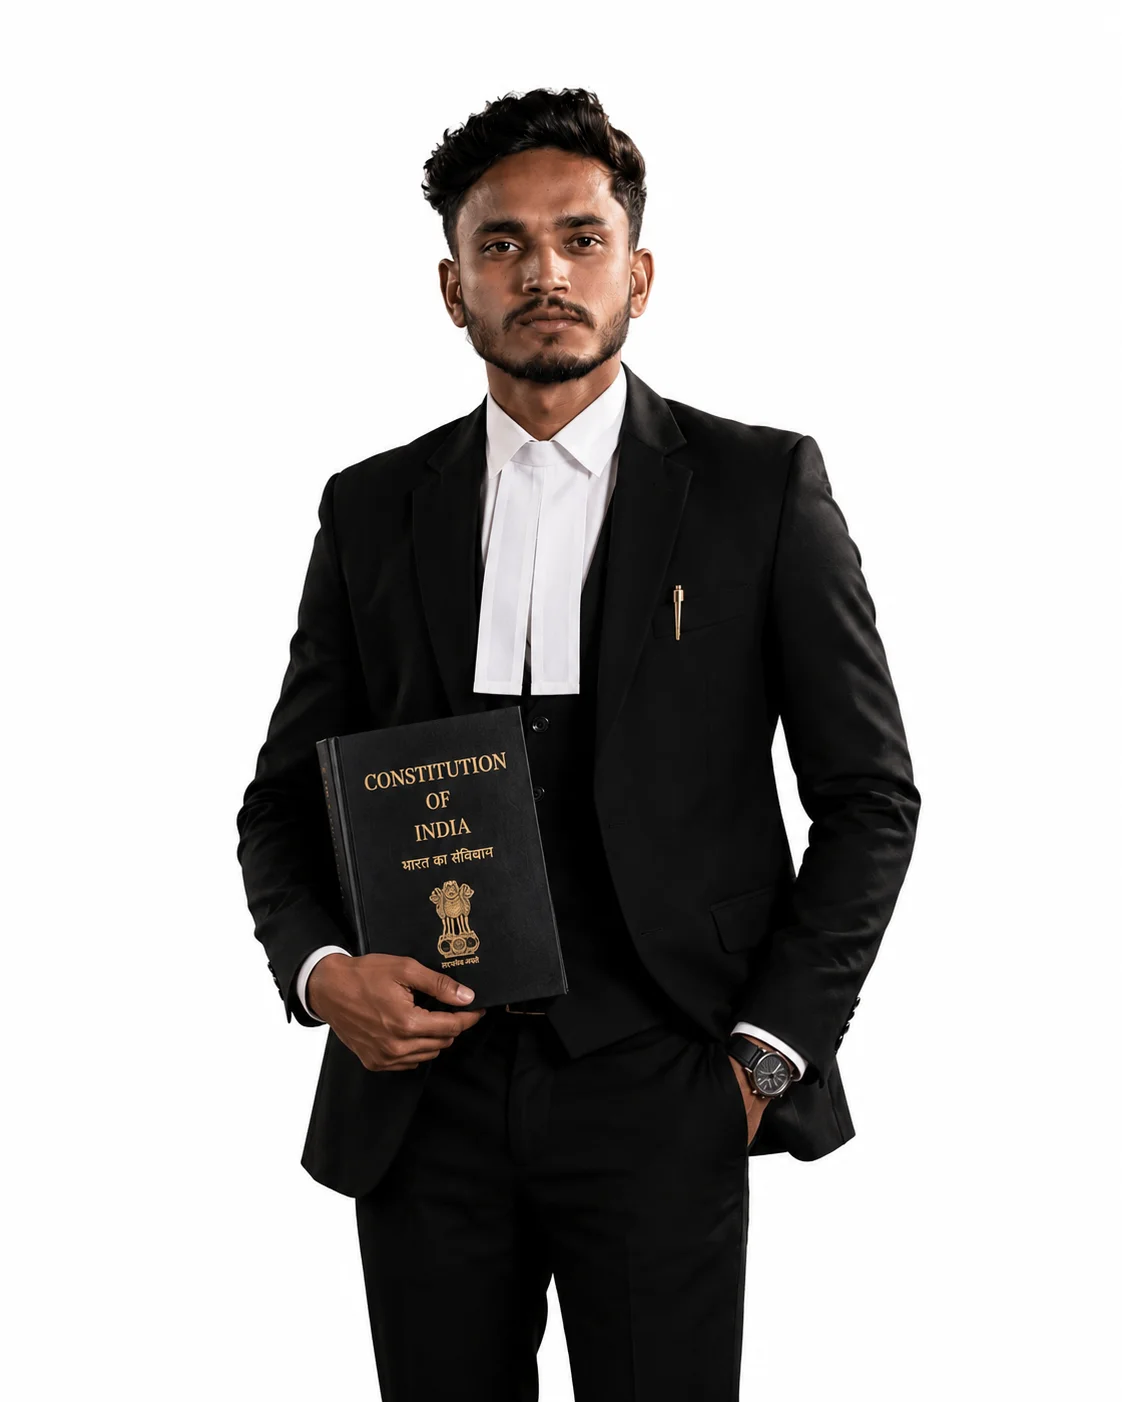
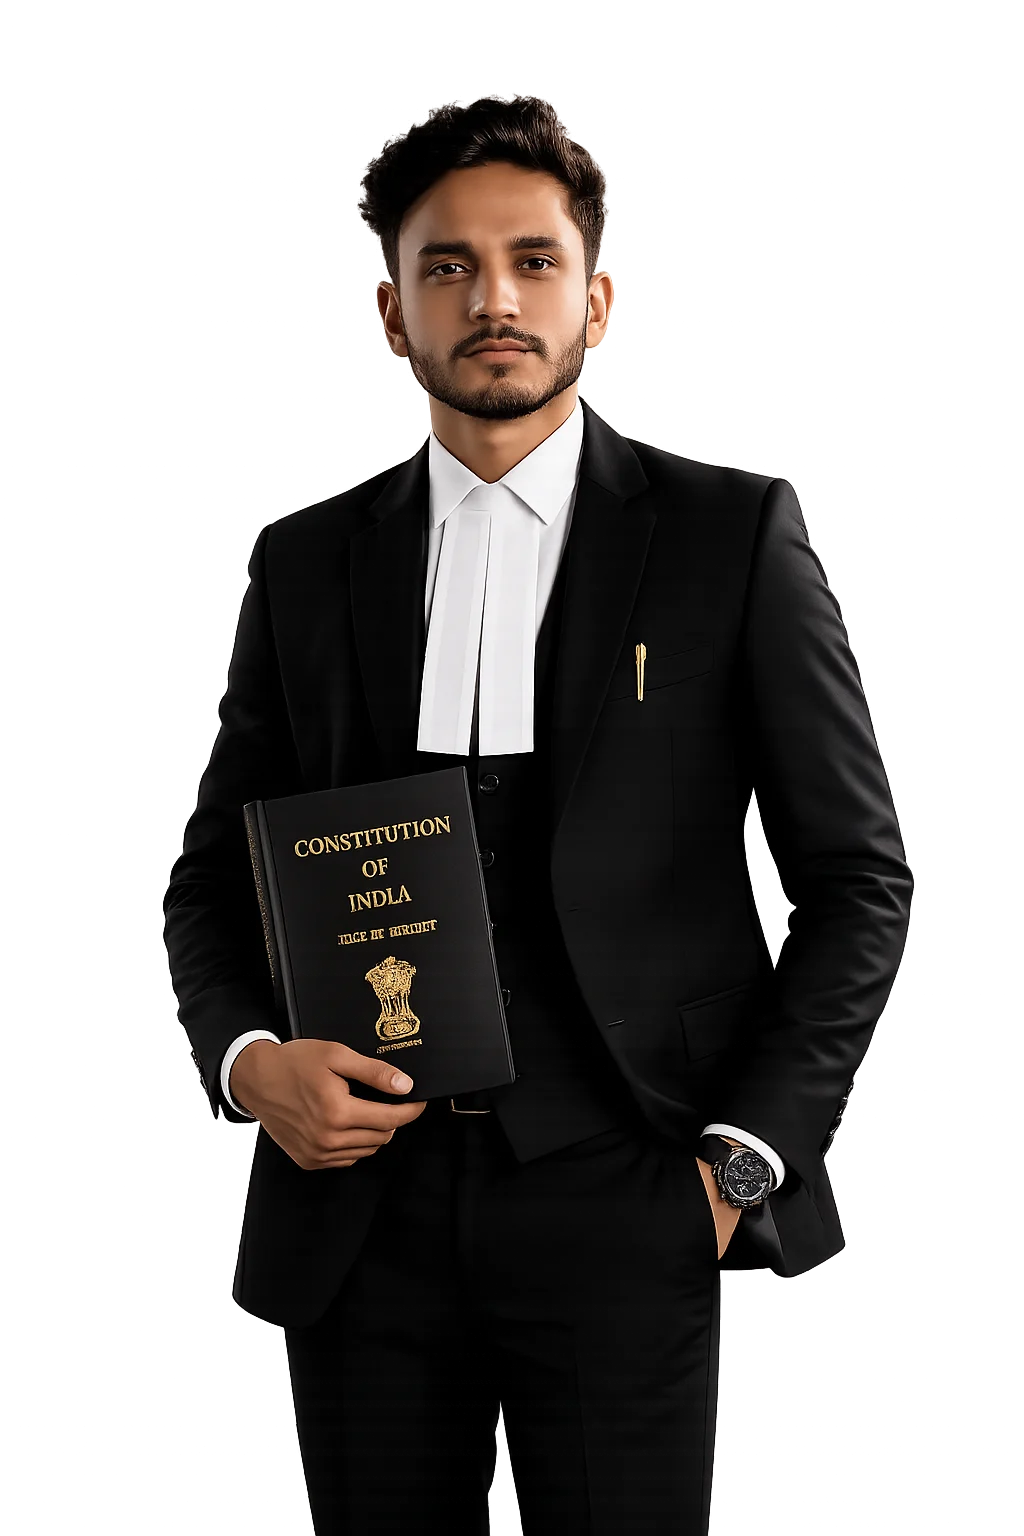
security updates

diff --git a/main.js b/main.js
@@ -6,10 +6,11 @@
 
 document.addEventListener('DOMContentLoaded', () => {
 
-  // Initialize Animations & Form Handler
+  // Initialize Animations, Form Handler & Security Protection
   initNavEffects();
   initAnimeAnimations();
   initContactFormAPI();
+  initCodeProtection();
 
   /* ============================================
      1. NAVBAR EFFECTS
@@ -339,6 +340,67 @@ document.addEventListener('DOMContentLoaded', () => {
         }[m];
       });
     }
+  }
+
+  /* ============================================
+     4. CODE & INSPECTION PROTECTION
+     ============================================ */
+  function initCodeProtection() {
+    // Print Security Warning Banner in DevTools Console
+    console.log(
+      '%cStop! Security Notice',
+      'color: #C8A96E; font-size: 22px; font-weight: bold;'
+    );
+    console.log(
+      '%cThis website and its source code are protected. Unauthorized copying of text, graphics, or code is prohibited.\nAdvocate Deepak Bunkar — All Rights Reserved.',
+      'font-size: 12px; color: #666666; font-family: sans-serif;'
+    );
+
+    // Disable Right-Click Context Menu
+    document.addEventListener('contextmenu', (e) => {
+      e.preventDefault();
+      return false;
+    });
+
+    // Disable DevTools & View Source Keyboard Shortcuts
+    document.addEventListener('keydown', (e) => {
+      // F12
+      if (e.keyCode === 123 || e.key === 'F12') {
+        e.preventDefault();
+        return false;
+      }
+      // Ctrl+Shift+I / Cmd+Option+I (Inspect Element)
+      if ((e.ctrlKey || e.metaKey) && e.shiftKey && (e.keyCode === 73 || e.key === 'I' || e.key === 'i')) {
+        e.preventDefault();
+        return false;
+      }
+      // Ctrl+Shift+J / Cmd+Option+J (Console)
+      if ((e.ctrlKey || e.metaKey) && e.shiftKey && (e.keyCode === 74 || e.key === 'J' || e.key === 'j')) {
+        e.preventDefault();
+        return false;
+      }
+      // Ctrl+Shift+C / Cmd+Option+C (Element Selector)
+      if ((e.ctrlKey || e.metaKey) && e.shiftKey && (e.keyCode === 67 || e.key === 'C' || e.key === 'c')) {
+        e.preventDefault();
+        return false;
+      }
+      // Ctrl+U / Cmd+Option+U (View Source)
+      if ((e.ctrlKey || e.metaKey) && (e.keyCode === 85 || e.key === 'U' || e.key === 'u')) {
+        e.preventDefault();
+        return false;
+      }
+      // Ctrl+S / Cmd+S (Save Page)
+      if ((e.ctrlKey || e.metaKey) && (e.keyCode === 83 || e.key === 'S' || e.key === 's')) {
+        e.preventDefault();
+        return false;
+      }
+    });
+
+    // Prevent Image Dragging
+    document.querySelectorAll('img').forEach(img => {
+      img.setAttribute('draggable', 'false');
+      img.addEventListener('dragstart', (e) => e.preventDefault());
+    });
   }
 
 });

diff --git a/style.css b/style.css
@@ -1088,3 +1088,15 @@ img {
     gap: 20px;
   }
 }
+
+/* SECURITY & INSPECTION PROTECTION STYLES */
+img {
+  user-select: none;
+  -webkit-user-select: none;
+  -webkit-user-drag: none;
+}
+
+body {
+  -webkit-touch-callout: none;
+}
+

diff --git a/seo/meta.html b/seo/meta.html
@@ -14,11 +14,11 @@
 <meta property="og:url" content="https://deepak-law.vercel.app/">
 <meta property="og:title" content="Deepak Bunkar | Advocate & Lawyer in Jaipur District Court & Rajasthan High Court">
 <meta property="og:description" content="Looking for a lawyer in Jaipur? Advocate Deepak Bunkar provides expert legal representation in Jaipur District Court & Rajasthan High Court. Criminal, Civil, Family & Corporate law. Consult now.">
-<meta property="og:image" content="https://deepak-law.vercel.app/assets/portrait.webp">
+<meta property="og:image" content="https://deepak-law.vercel.app/assets/person.webp">
 
 <!-- Twitter -->
 <meta property="twitter:card" content="summary_large_image">
 <meta property="twitter:url" content="https://deepak-law.vercel.app/">
 <meta property="twitter:title" content="Deepak Bunkar | Advocate & Lawyer in Jaipur District Court & Rajasthan High Court">
 <meta property="twitter:description" content="Looking for a lawyer in Jaipur? Advocate Deepak Bunkar provides expert legal representation in Jaipur District Court & Rajasthan High Court. Criminal, Civil, Family & Corporate law. Consult now.">
-<meta property="twitter:image" content="https://deepak-law.vercel.app/assets/portrait.webp">
+<meta property="twitter:image" content="https://deepak-law.vercel.app/assets/person.webp">